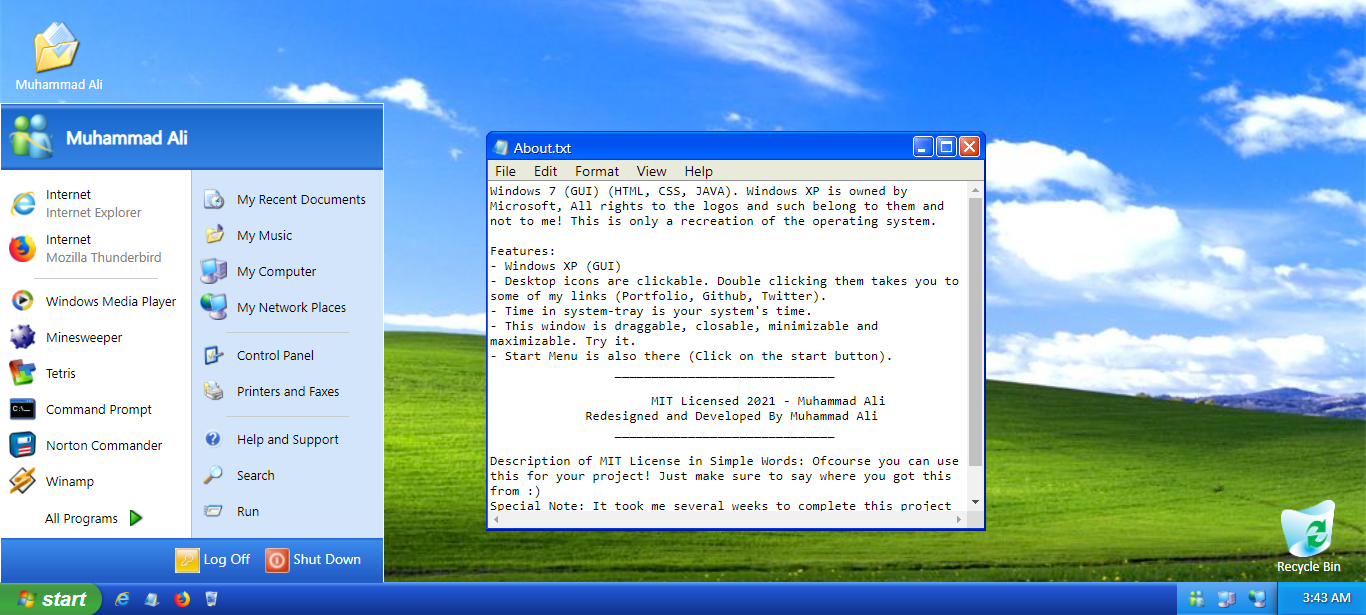
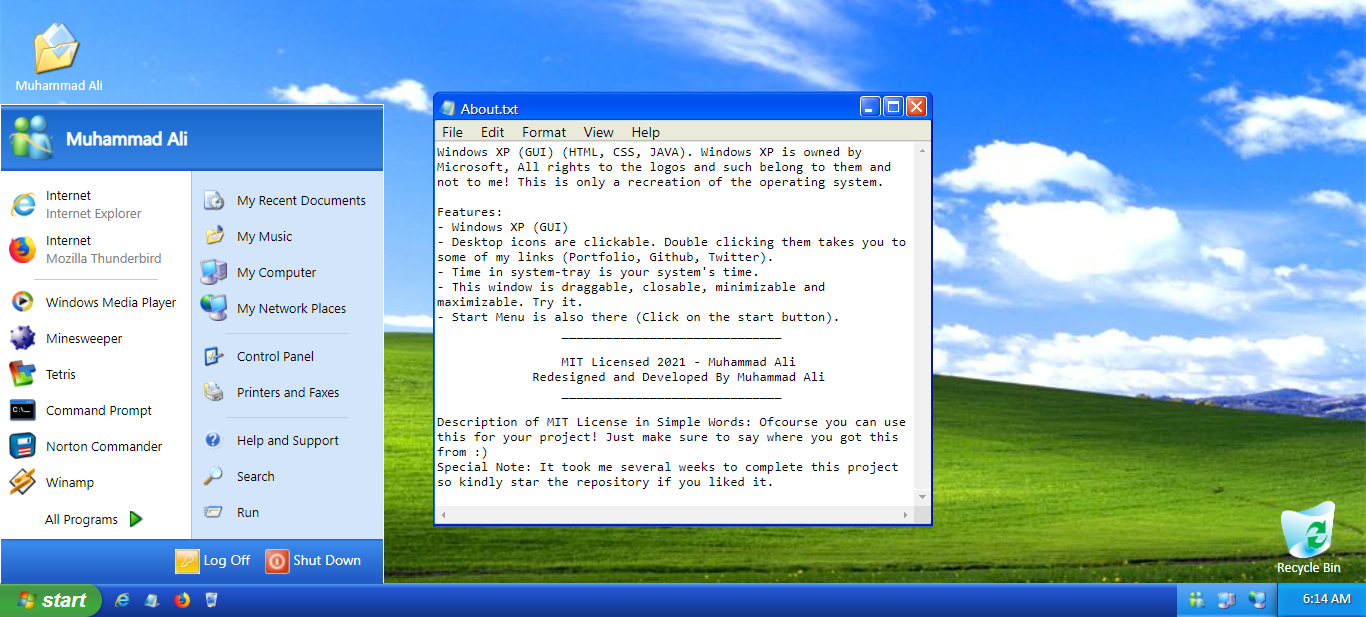
Some New Changes

diff --git a/assets/Script/desktop.js b/assets/Script/desktop.js
@@ -66,7 +66,7 @@ document.querySelector(".note-pad").ondblclick = function () {
     document.querySelector(".window").classList.remove("minimized")
 }
 
-document.querySelector("textarea").value = "Windows 7 (GUI) (HTML, CSS, JAVA). Windows XP is owned by Microsoft, All rights to the logos and such belong to them and not to me! This is only a recreation of the operating system. \n\nFeatures:\n- Windows XP (GUI)\n- Desktop icons are clickable. Double clicking them takes you to some of my links (Portfolio, Github, Twitter).\n- Time in system-tray is your system's time.\n- This window is draggable, closable, minimizable and maximizable. Try it.\n- Start Menu is also there (Click on the start button). \n                 ______________________________\n\n                      MIT Licensed 2021 - Muhammad Ali\n             Redesigned and Developed By Muhammad Ali\n                 ______________________________\n\nDescription of MIT License in Simple Words: Ofcourse you can use this for your project! Just make sure to say where you got this from :) \nSpecial Note: It took me several weeks to complete this project so kindly star the repository if you liked it.\n"
+document.querySelector("textarea").value = "Windows XP (GUI) (HTML, CSS, JAVA). Windows XP is owned by Microsoft, All rights to the logos and such belong to them and not to me! This is only a recreation of the operating system. \n\nFeatures:\n- Windows XP (GUI)\n- Desktop icons are clickable. Double clicking them takes you to some of my links (Portfolio, Github, Twitter).\n- Time in system-tray is your system's time.\n- This window is draggable, closable, minimizable and maximizable. Try it.\n- Start Menu is also there (Click on the start button). \n                 ______________________________\n\n                 MIT Licensed 2021 - Muhammad Ali\n             Redesigned and Developed By Muhammad Ali\n                 ______________________________\n\nDescription of MIT License in Simple Words: Of course you can use this for your project! Just make sure to say where you got this from :) \nSpecial Note: It took me several weeks to complete this project so kindly star the repository if you liked it.\n"
 
 
 dragWindow(document.querySelector(".window"));

diff --git a/assets/Css/desktop.css b/assets/Css/desktop.css
@@ -73,7 +73,7 @@ body {
     left: 50%;
     transform: translate(-50%, -50%);
     max-width: 500px;
-    max-height: 400px;
+    max-height: 435px;
     width: calc(100% - 50px);
     height: calc(100% - 100px);
 
